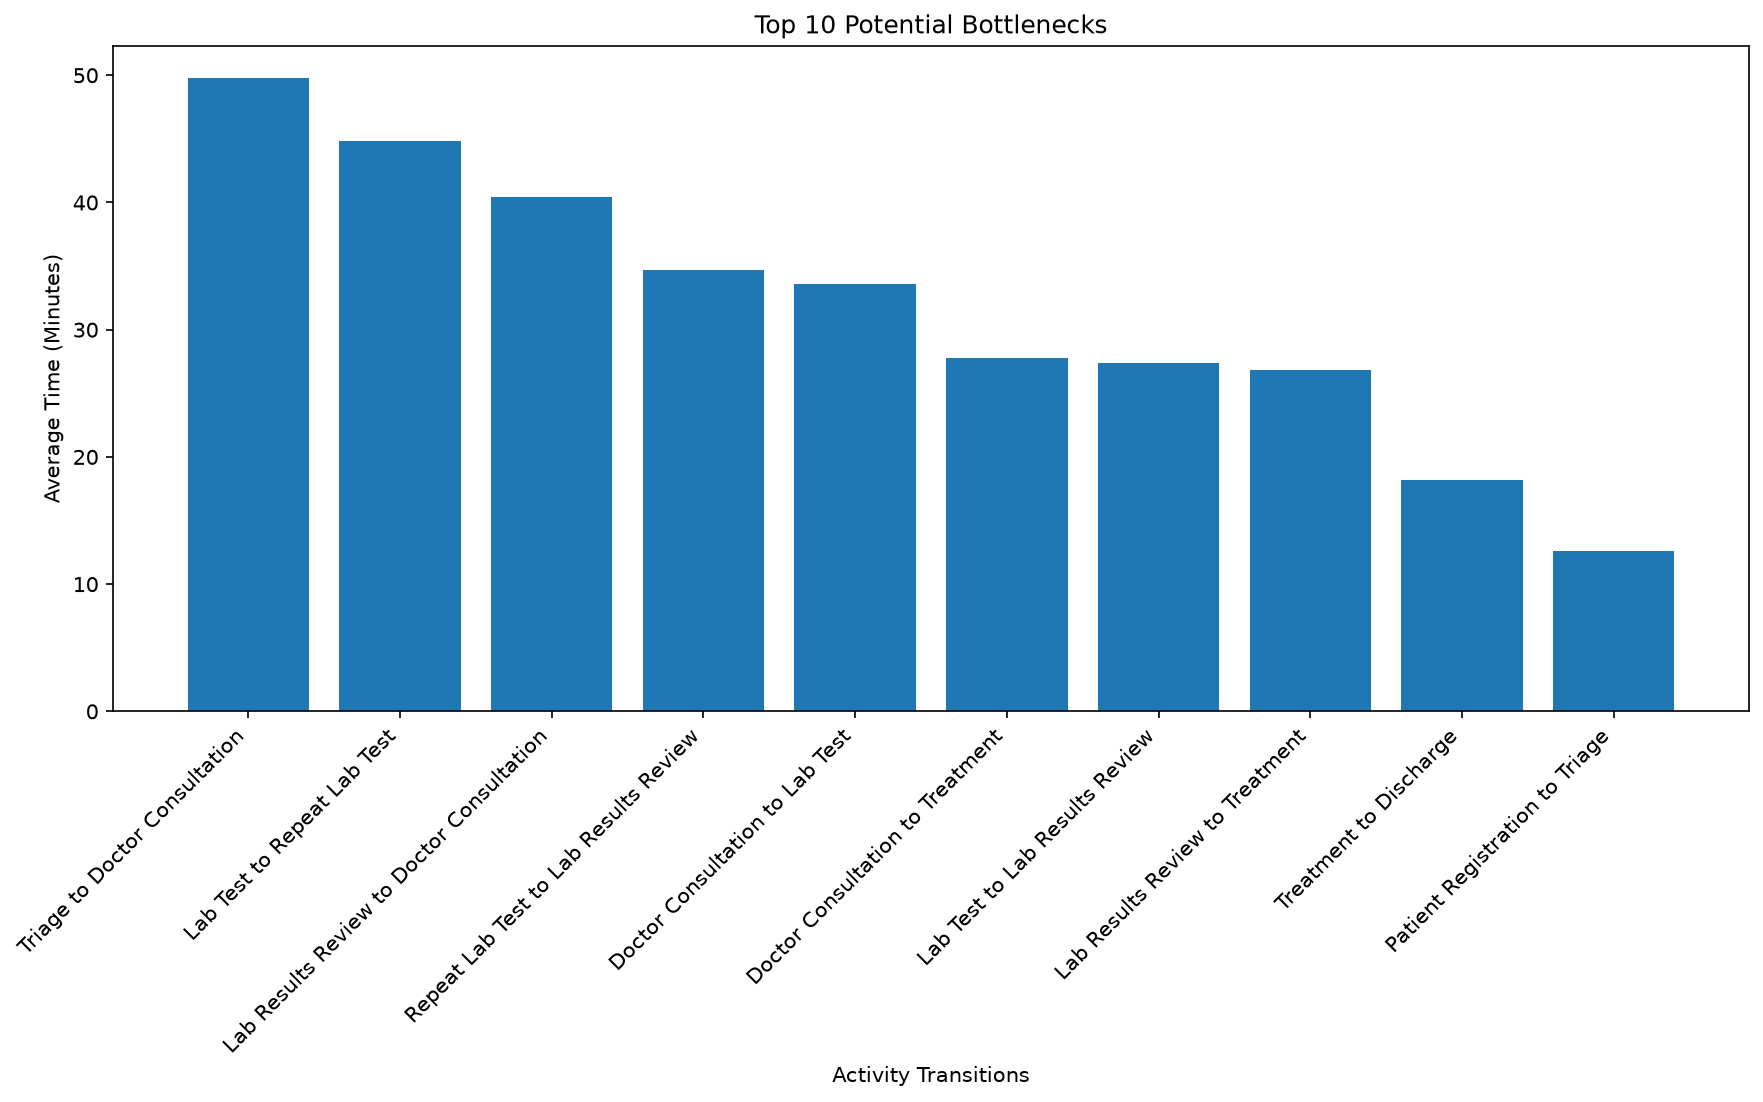
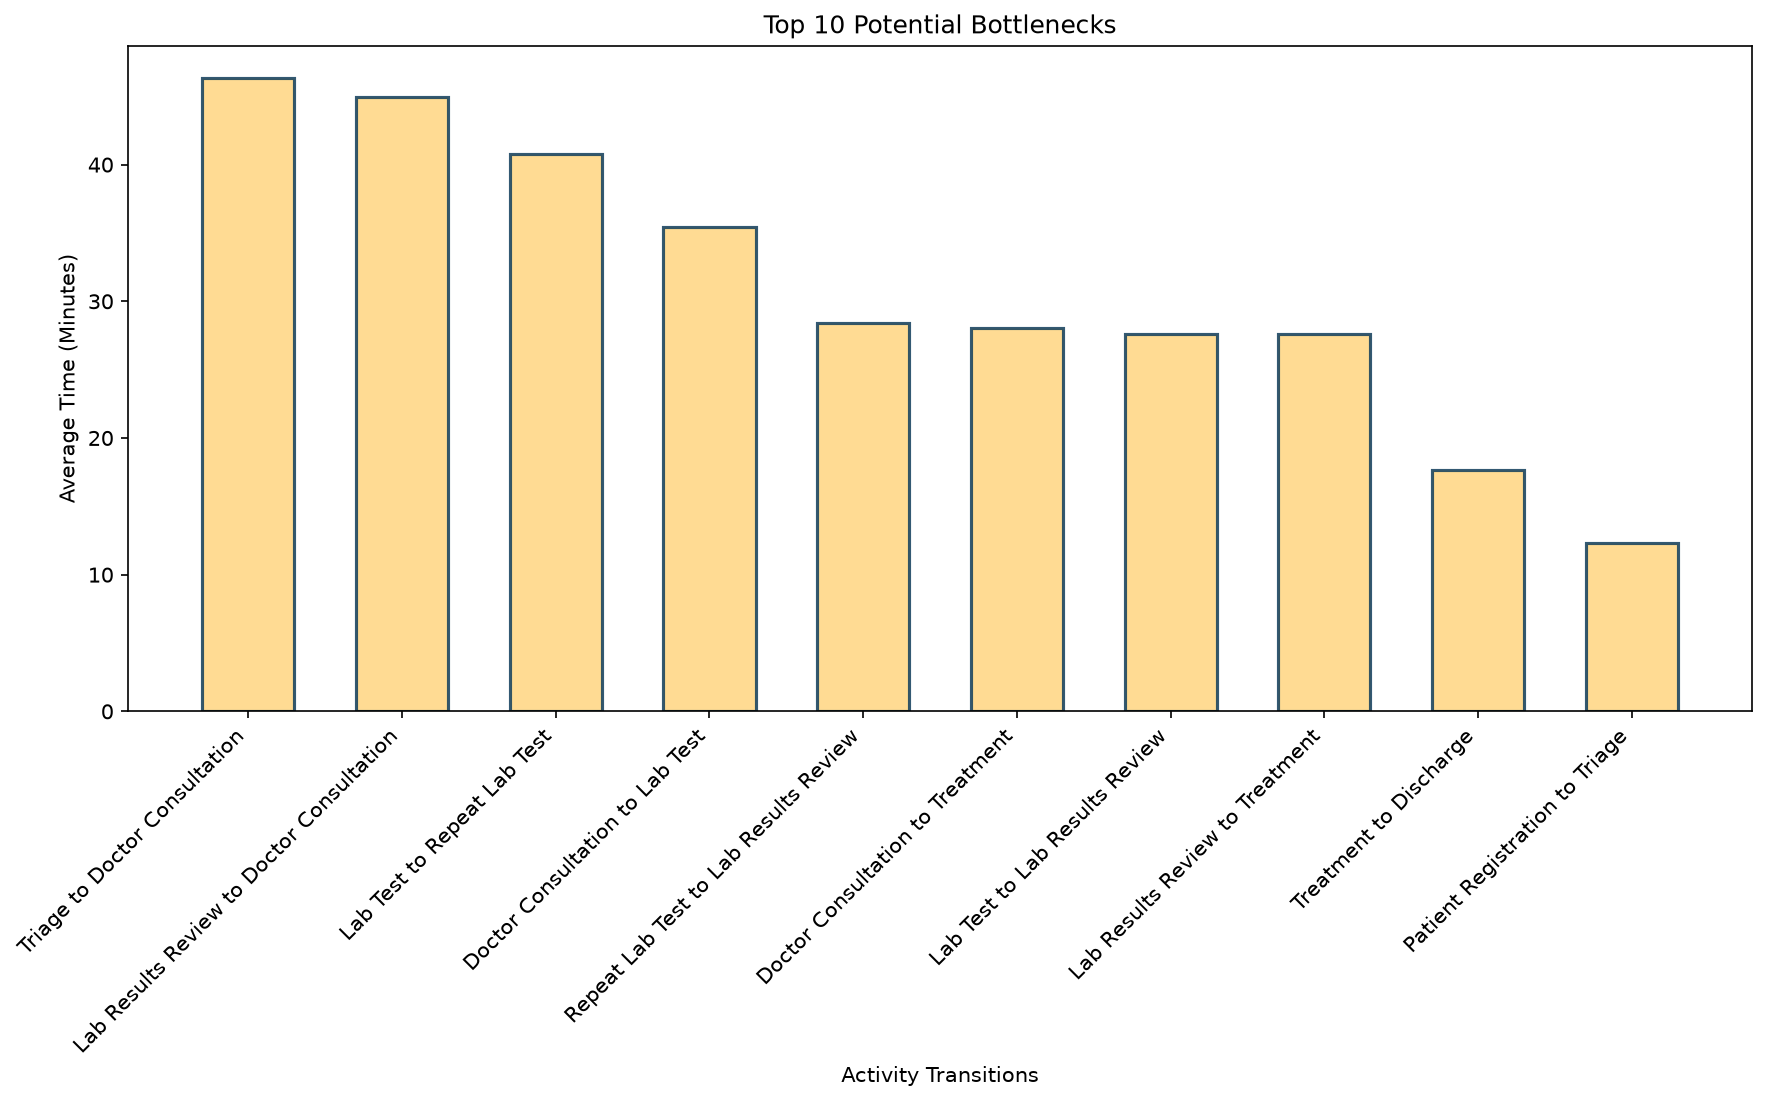
Finalized bottlenecks with enhanced chart design and layout fixes

diff --git a/process_mining/analyze_bottlenecks.py b/process_mining/analyze_bottlenecks.py
@@ -3,7 +3,7 @@ import pandas as pd
 
 # Project path
 PROJECT_ROOT = Path(__file__).resolve().parent.parent
-DATA_FILE = PROJECT_ROOT / "data" / "sample" / "sample_event_log.csv"
+DATA_FILE = PROJECT_ROOT / "data" / "raw" / "hospital_event_log_full.csv"
 
 # Load data
 df = pd.read_csv(DATA_FILE)   
@@ -102,7 +102,12 @@ plt.figure(figsize=(12, 8))
 
 plt.bar(
     range(len(top)),
-    top["Average_Time_Minutes"]
+    top["Average_Time_Minutes"],
+    color="#FFD580",
+    edgecolor="#0f3c5a",
+     linewidth=1.5,           
+    width=0.6,             
+    alpha=0.85 
 )
 
 plt.xticks(
